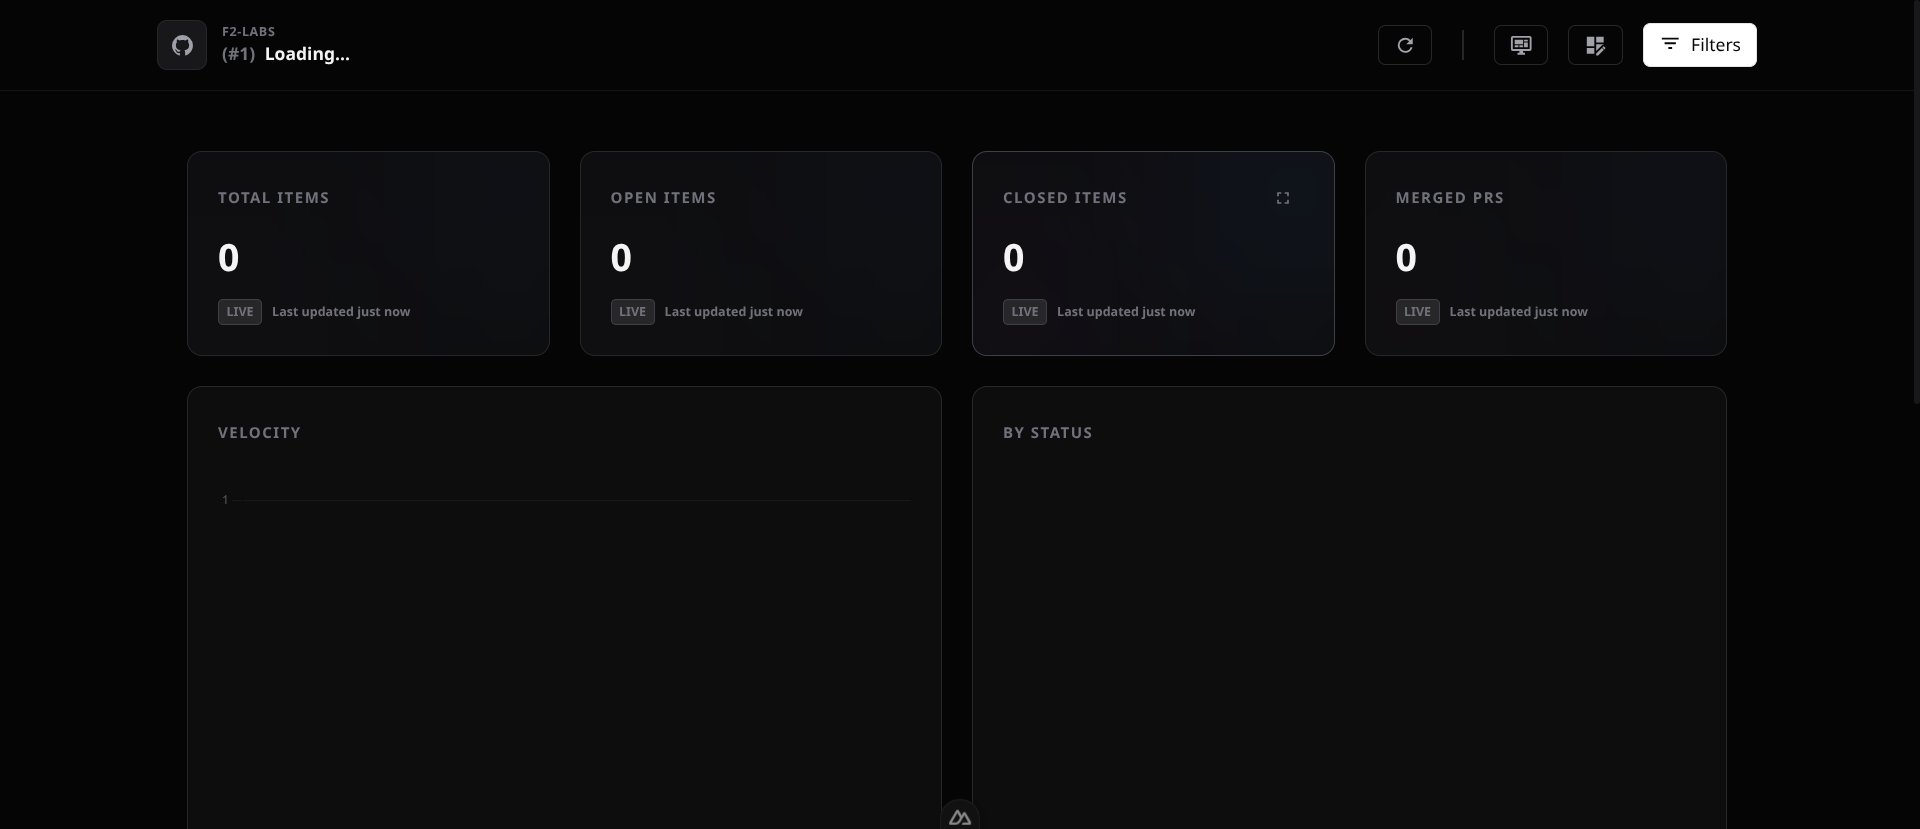
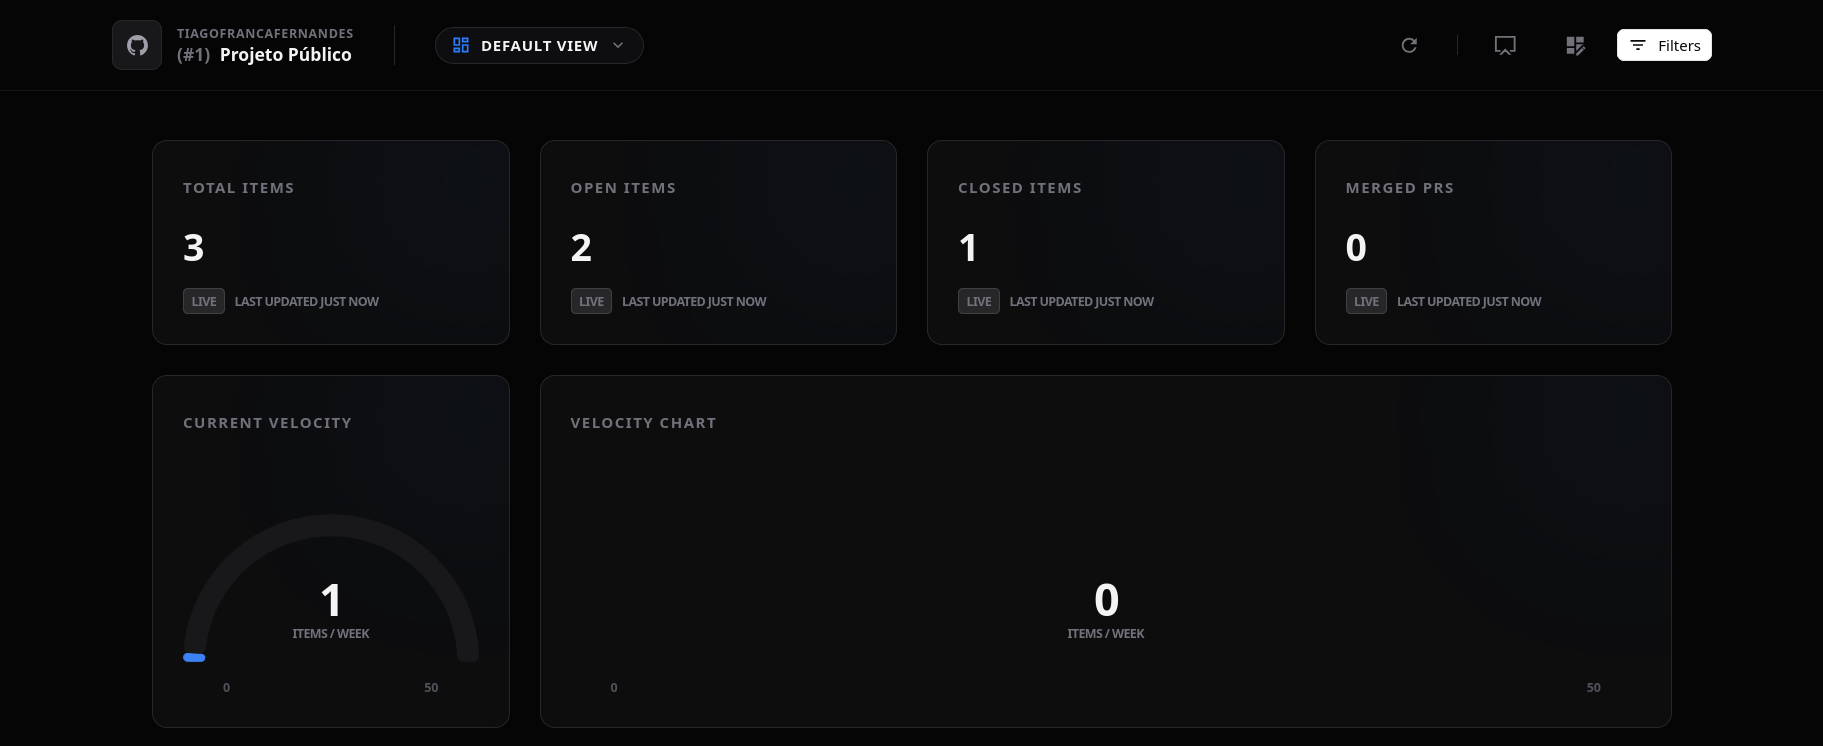
docs: add Apache 2.0 License and link in README
- Create LICENSE file containing full Apache 2.0 license text.
- Update License section in README.md to link to the LICENSE file.
- Track updated screenshot assets under docs/assets/.

diff --git a/README.md b/README.md
@@ -119,4 +119,4 @@ npm run build
 
 ## License
 
-MIT
+This project is licensed under the [Apache License 2.0](LICENSE).
